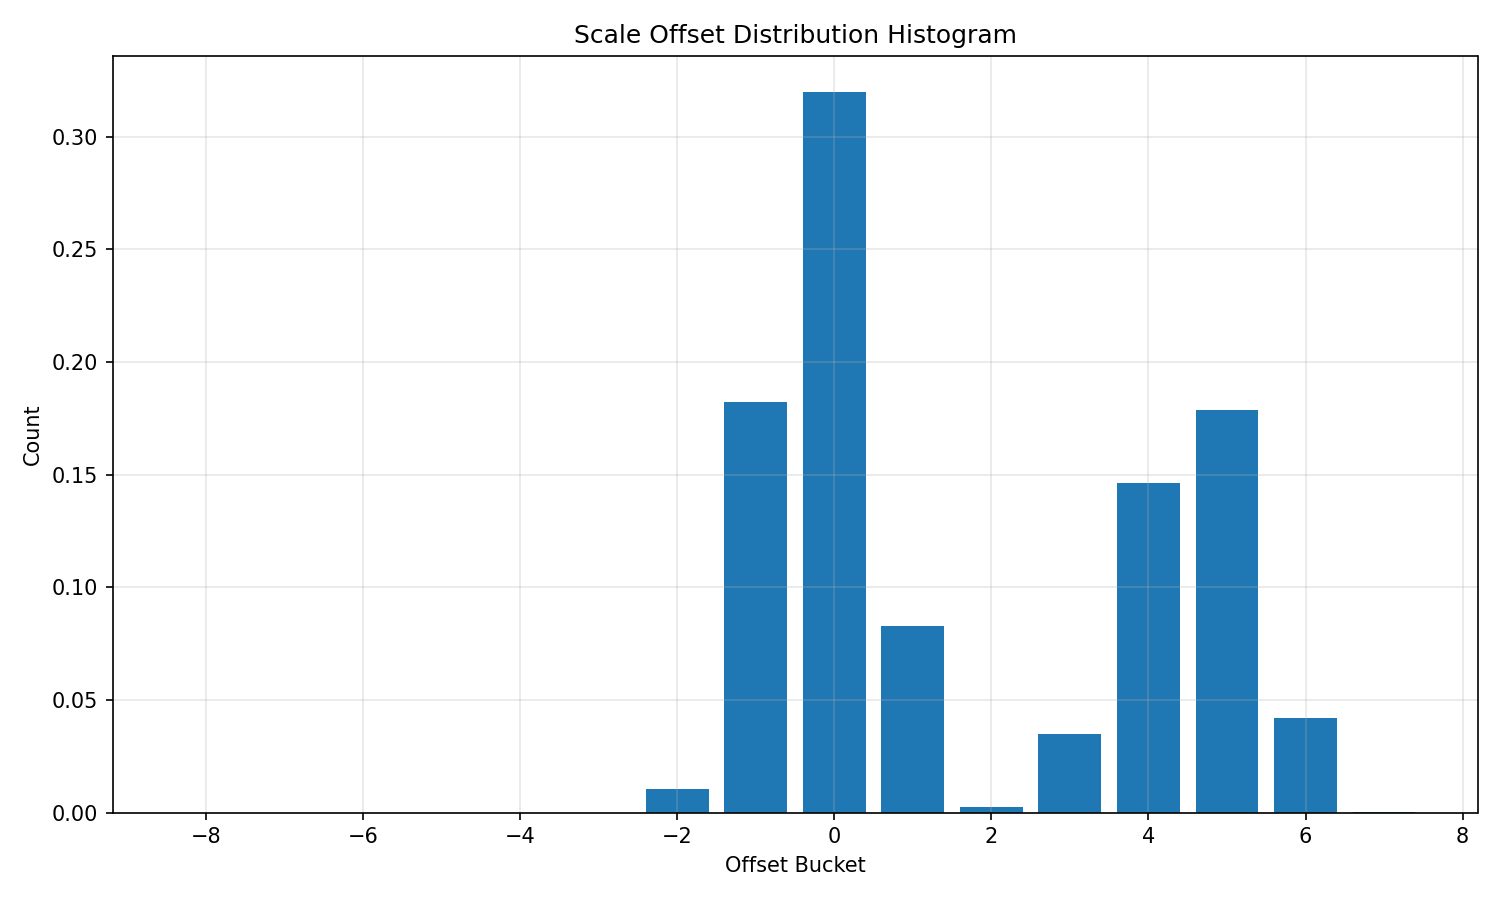
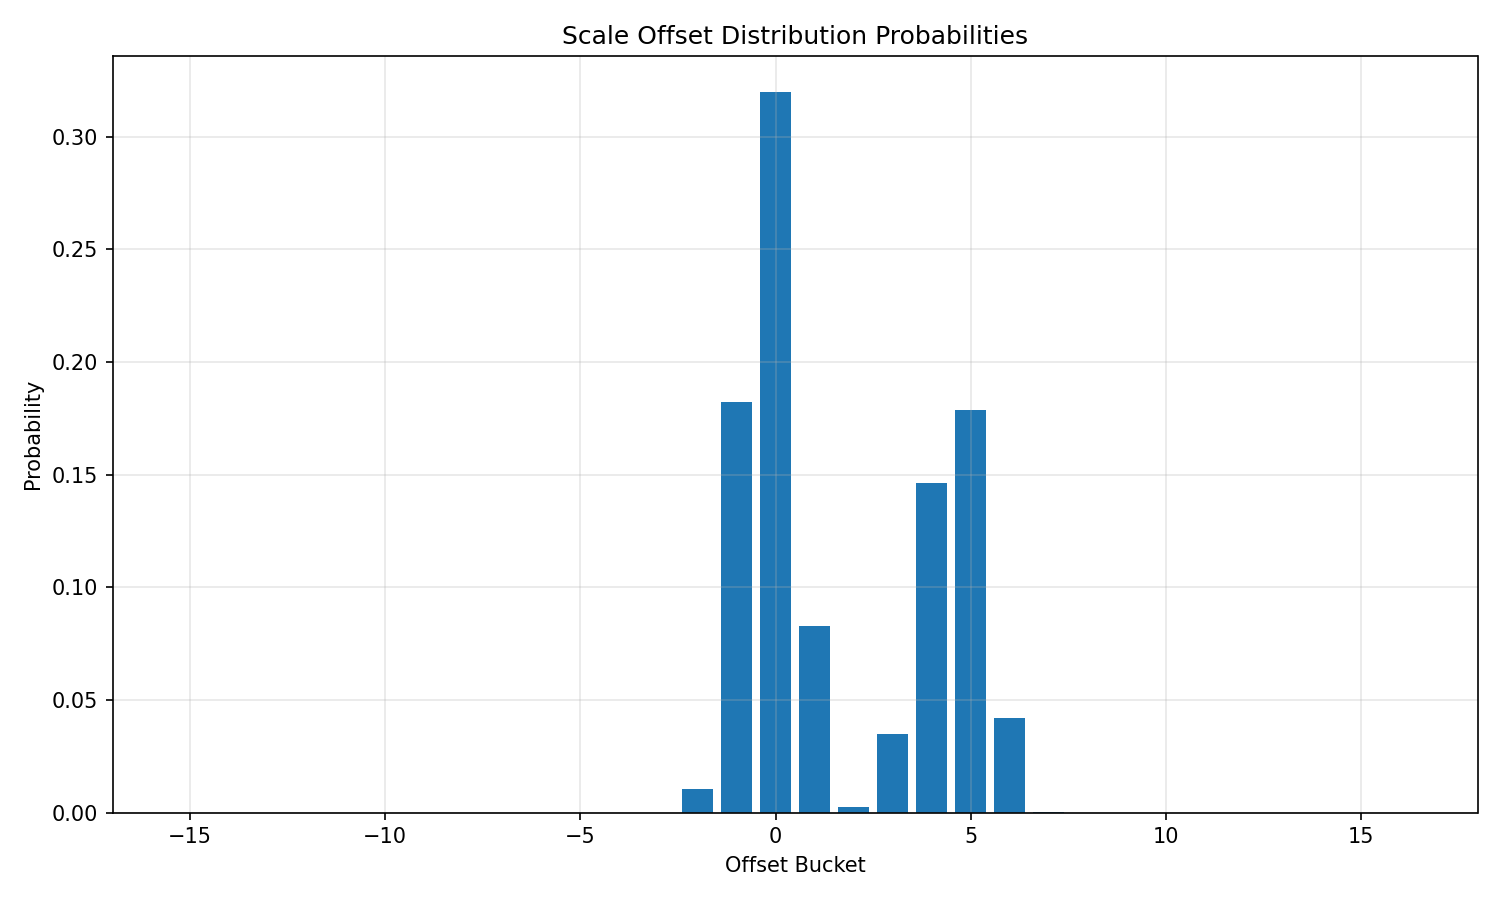
added dynamic ranges

diff --git a/experiments/kernel.py b/experiments/kernel.py
@@ -60,7 +60,7 @@ def add_fp8(x: tl.tensor, y):
     return (x.to(tl.uint8, bitcast=True) + y.to(tl.uint8)).to(tl.float8e4nv, bitcast=True)
 
 @triton.jit
-def quantize_to_fp4_single_search(x: tl.tensor, S_BLOCK_SIZE: tl.constexpr, BLOCK_SIZE: tl.constexpr):
+def quantize_to_fp4_single_search(x: tl.tensor, S_BLOCK_SIZE: tl.constexpr, BLOCK_SIZE: tl.constexpr, min_range: tl.constexpr, max_range: tl.constexpr):
     max_abs_x = tl.maximum(tl.max(tl.abs(x), axis=-1), 1e-10) * (1.0 / 6.0)
     max_abs_x = tl.clamp(max_abs_x, 1e-10 / 6.0, 448.0)
     xscale_f8 = max_abs_x.to(tl.float8e4nv, fp_downcast_rounding="rtne")[:, None]
@@ -68,7 +68,7 @@ def quantize_to_fp4_single_search(x: tl.tensor, S_BLOCK_SIZE: tl.constexpr, BLOC
     best_quantized = tl.zeros((S_BLOCK_SIZE, 16), dtype=tl.uint8)
     best_xscale = tl.zeros((S_BLOCK_SIZE,1), dtype=tl.float8e4nv)
     best_offset = tl.zeros((S_BLOCK_SIZE,1), dtype=tl.int8)
-    for offset_val in range(-7, 9, 1):
+    for offset_val in range(min_range, max_range + 1, 1):
         xscale = (add_fp8(xscale_f8, offset_val)).to(tl.float32)
         xscale_inv = 1.0 / xscale
         quantized = f32_to_f4_single(x * xscale_inv)
@@ -106,6 +106,8 @@ def quant_kernel(
     seq_len: tl.int32,
     S_BLOCK_SIZE: tl.constexpr,
     D_BLOCK_SIZE: tl.constexpr,
+    min_range: tl.constexpr,
+    max_range: tl.constexpr,
 ): 
     off_blk = tl.program_id(0)
     off_s = tl.program_id(1)
@@ -117,7 +119,7 @@ def quant_kernel(
     block = s_block * stride_seq_input + d_block
 
     vals = tl.load(input + offset + block, mask=mask, other=0.0)
-    quantized_vals, scales, offset = quantize_to_fp4_single_search(vals, S_BLOCK_SIZE, D_BLOCK_SIZE)
+    quantized_vals, scales, offset = quantize_to_fp4_single_search(vals, S_BLOCK_SIZE, D_BLOCK_SIZE, min_range, max_range)
     quantized_vals = quantized_vals.to(dtype=tl.uint32)
     reconstructed_vals = dequantize_to_f32_single(quantized_vals, scales)
 
@@ -135,7 +137,7 @@ def quant_kernel(
     tl.store(scale_offset_distribution + s_offset + block, offset, mask=mask)
 
 
-def quantize_single(x: torch.tensor):
+def quantize_single(x: torch.tensor, min_range: int = -7, max_range: int = 8):
     b, h, n, d = x.shape
     BLOCK_SIZE = 16
     assert d % BLOCK_SIZE == 0
@@ -154,6 +156,8 @@ def quantize_single(x: torch.tensor):
             scale_offset_distribution.stride(0), scale_offset_distribution.stride(1),
             seq_len=rs,
             D_BLOCK_SIZE=BLOCK_SIZE,
+            min_range=min_range,
+            max_range=max_range,
         )
 
     reconstructed_vals = output.reshape(b, h, n, d)
@@ -162,22 +166,23 @@ def quantize_single(x: torch.tensor):
 
 if __name__ == "__main__":
     x = torch.randn(64, 64, 4096, 128, device=torch.device('cuda:0'), dtype=torch.float32).normal_()
-    reconstructed_vals, scale_offset_distribution = quantize_single(x)
+    min_range, max_range = -15, 16
+    reconstructed_vals, scale_offset_distribution = quantize_single(x, min_range=min_range, max_range=max_range)
     scale_offset_distribution_uns = scale_offset_distribution.flatten()
 
-    # Split into buckets
-    boundaries = torch.arange(-8, 8, 1, dtype=torch.int8, device=x.device)
-    hist_labels = torch.bucketize(scale_offset_distribution_uns, boundaries)
-    histogram = torch.bincount(hist_labels)
-    probs = histogram / histogram.sum()
+    # Count occurrences of each discrete offset value
+    histogram = torch.zeros(max_range - min_range + 1, dtype=torch.long, device=x.device)
+    for i, val in enumerate(range(min_range, max_range + 1)):
+        histogram[i] = (scale_offset_distribution_uns == val).sum()
+    probs = histogram.float() / histogram.sum()
     print(probs)
     
     # Plot the histogram
     plt.figure(figsize=(10, 6))
-    plt.bar(range(-8, 8, 1), probs.cpu().numpy())
+    plt.bar(range(min_range, max_range + 1, 1), probs.cpu().numpy())
     plt.xlabel('Offset Bucket')
-    plt.ylabel('Count')
-    plt.title('Scale Offset Distribution Histogram')
+    plt.ylabel('Probability')
+    plt.title('Scale Offset Distribution Probabilities')
     plt.grid(True, alpha=0.3)
     plt.tight_layout()
     plt.savefig('scale_offset_probs.png', dpi=150)
